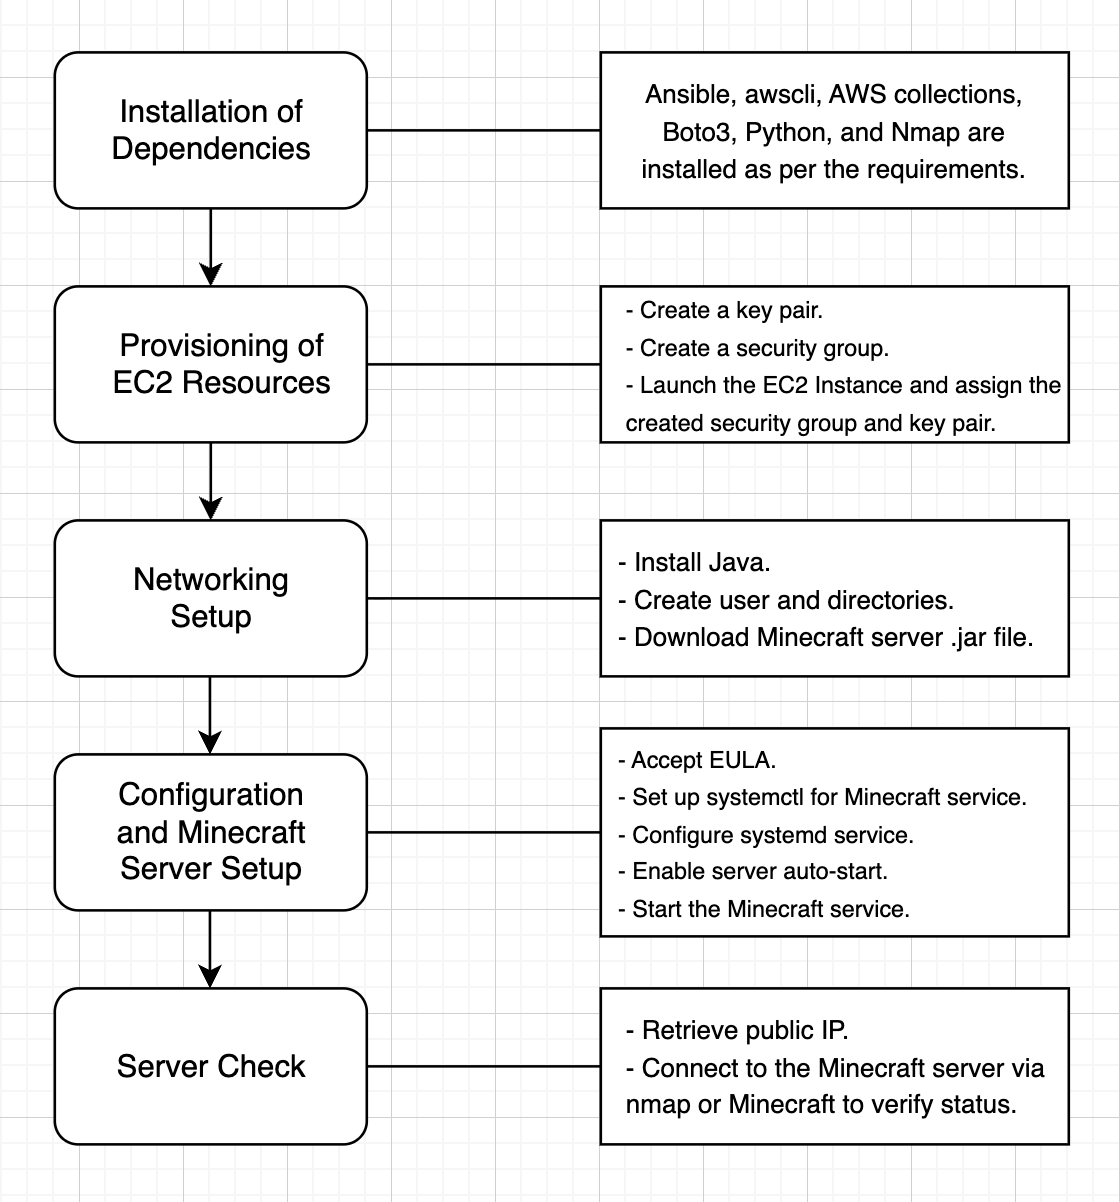
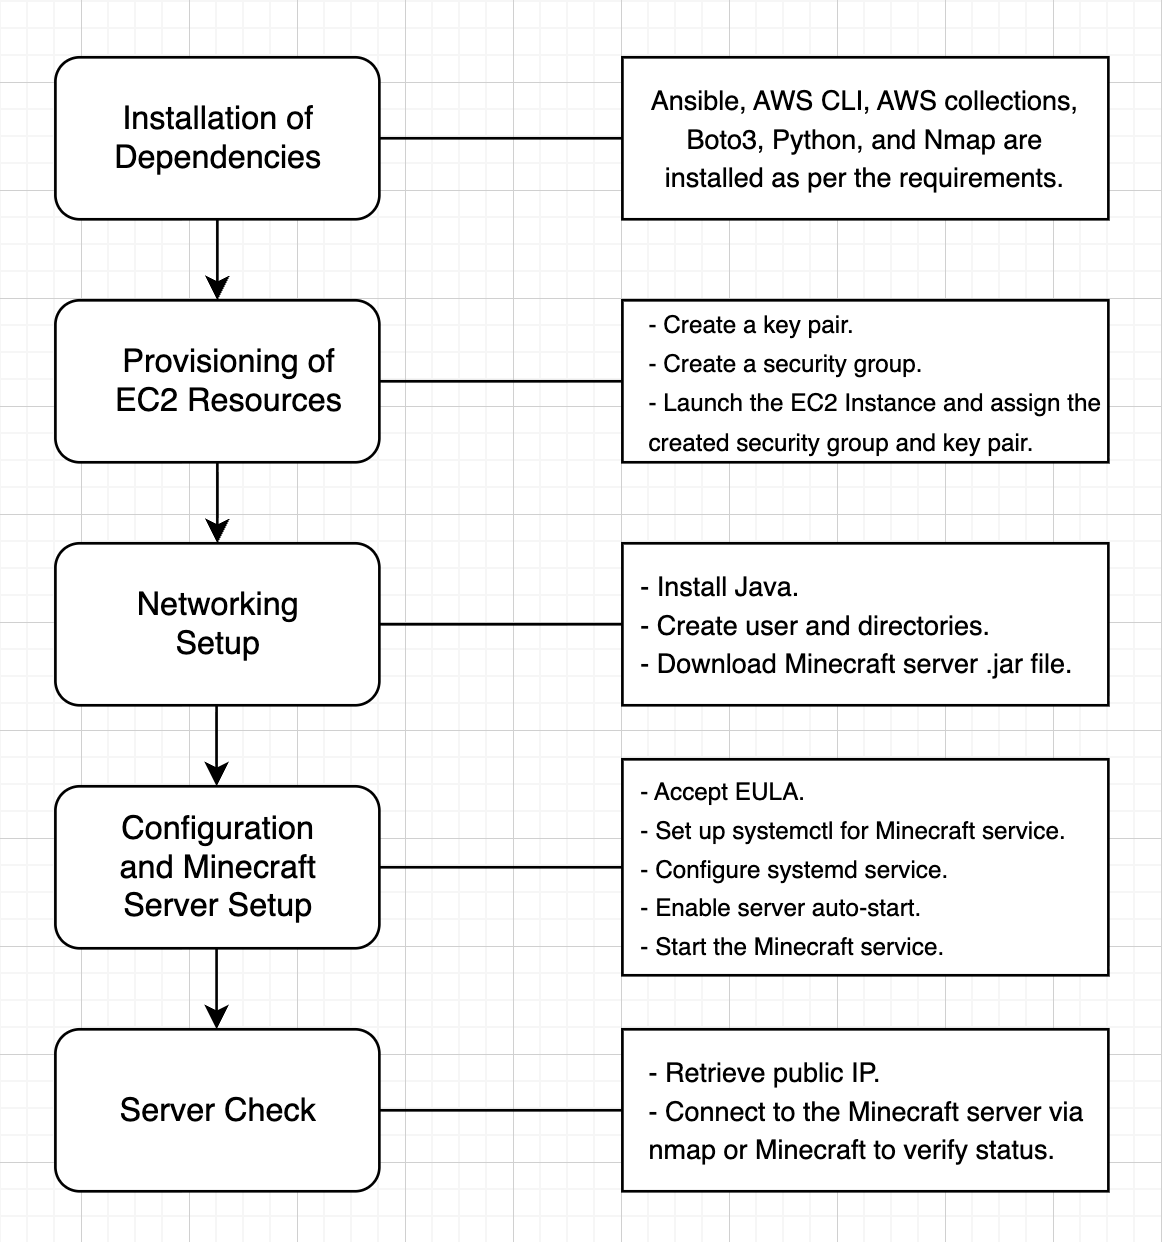
Fixed image

diff --git a/README.md b/README.md
@@ -20,7 +20,7 @@ These are required for the completion of this tutorial.
     - AWS Secret Access Key
     - AWS Session Token
 3. Ubuntu/Debian OS
-4. Installation of Python, Ansible, awscli, Boto3, Nmap, and AWS collections
+4. Installation of Python, Ansible, AWS CLI, Boto3, Nmap, and AWS collections
 5. Installation of Java and Minecraft server within the EC2 instance
 
 Note: While the installation within the given requirements is necessary, a Bash script called <b>installation.sh</b> will also be given to assist with the installation of the requirements. The tutorial covers how these requirements will be used. The installation of Java and the Minecraft server setup are also covered within the tutorial.
@@ -28,7 +28,7 @@ Note: While the installation within the given requirements is necessary, a Bash 
 <h2>Overview of Different Stages of the Pipeline</h2>
 
 1. Installation of Dependencies
-    - Ansible, awscli, AWS collections, Boto3, Python, and Nmap are installed as per the requirements.
+    - Ansible, AWS CLI, AWS collections, Boto3, Python, and Nmap are installed as per the requirements.
 
 2. Provisioning of EC2 Resources
     - Create a key pair.
@@ -69,7 +69,7 @@ sudo chmod +x installation.sh
 sudo ./installation.sh
 ```
 
-The Bash script commands ensure that the local device checks and downloads the latest available versions of its software. Ansible, awscli, and the AWS collections are also installed for the purpose of automating the provisioning, configuration, and management of AWS resources. Boto3 is installed along with Python3 for meeting the requirements of AWS modules with Ansible. Nmap will be used for connecting to the Minecraft server address.
+The Bash script commands ensure that the local device checks and downloads the latest available versions of its software. Ansible, AWS CLI, and the AWS collections are also installed for the purpose of automating the provisioning, configuration, and management of AWS resources. Boto3 is installed along with Python3 to meet the requirements of AWS modules with Ansible. Nmap will be used for connecting to the Minecraft server address.
 
 
 <h3>Part 2: Provisioning EC2 Resources</h3>
@@ -95,7 +95,7 @@ sudo chmod +x create_key.sh
 sudo ./create_key.sh
 ```
 
-This Bash script creates the key pair to be used within the EC2 instance which will allow us to connect to it through the private key.
+This Bash script creates the key pair to be used within the EC2 instance, which will allow us to connect to it through the private key.
 
 3. Launch the EC2 instance using Ansible by running the following command.
 
@@ -115,7 +115,7 @@ Bash
 ansible-playbook -i inventory.ini server.yaml
 ```
 
-This playbook installs Java and sets up the Minecraft server. It also ensures that the server will restart when the resources reboot.
+This playbook installs Java and sets up the Minecraft server. It also ensures that the server will restart when the resources are rebooted.
 
 <h3>Part 4: Checking Server Status</h3>
 